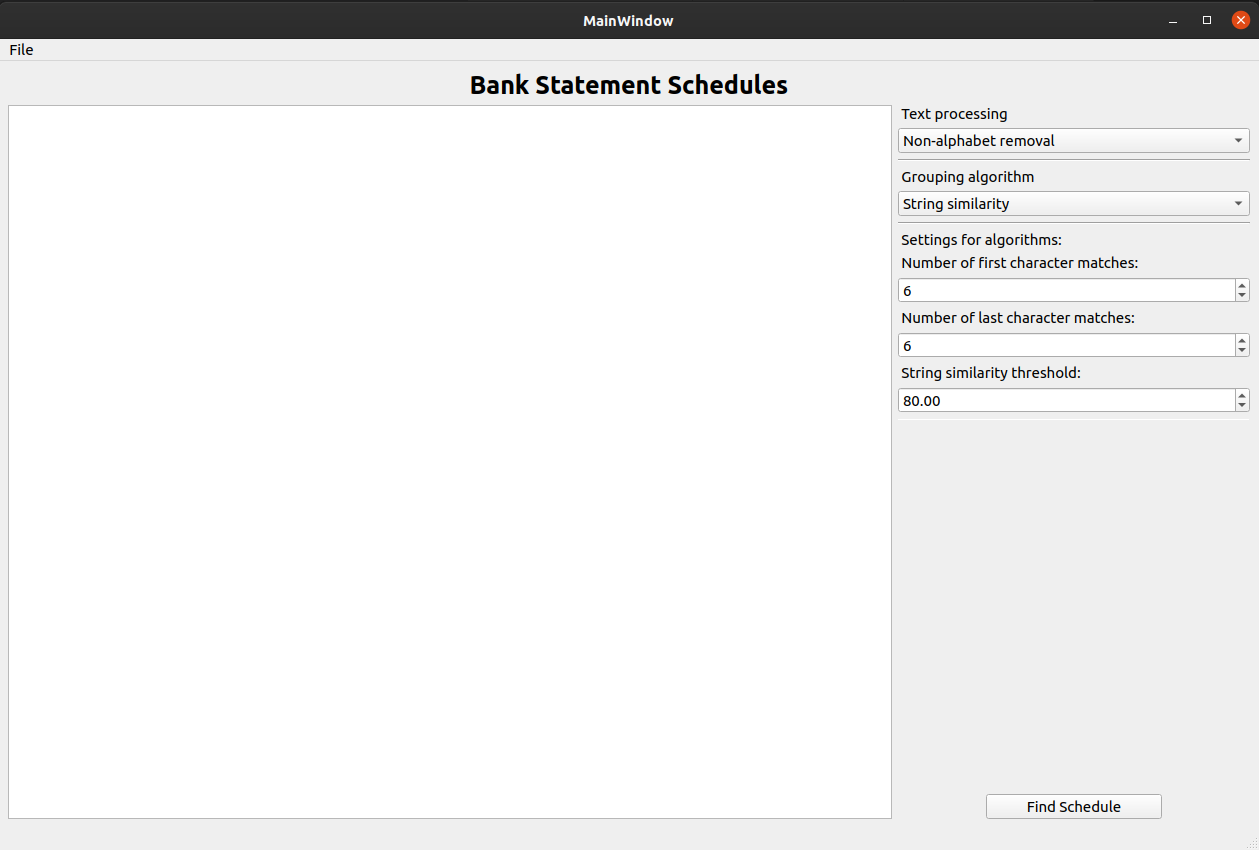
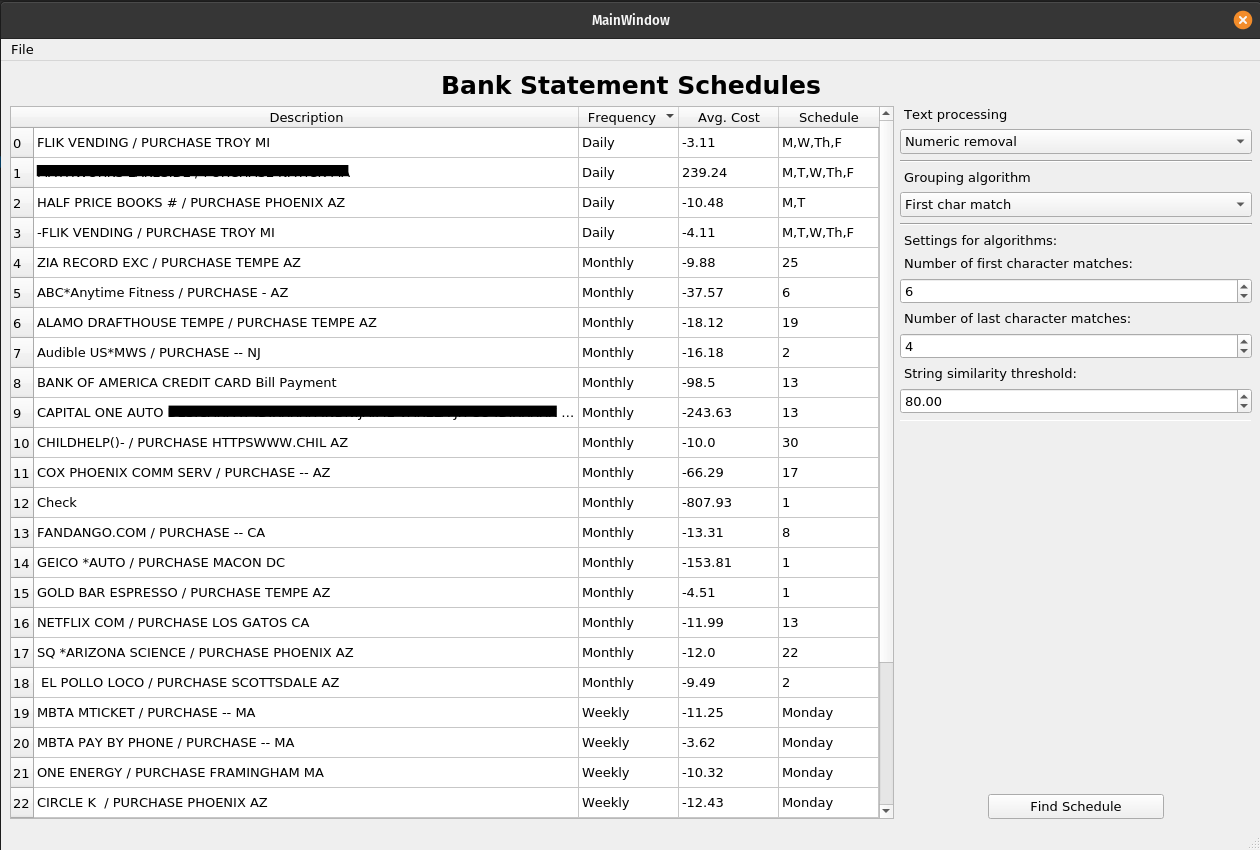
version one beta

diff --git a/analasisAPI/subscriptionFinder.py b/analasisAPI/subscriptionFinder.py
@@ -79,7 +79,7 @@ def NcharMatch(str1, str2, searchIndexStart = 0, nChars = 6):
     compareStr2 = str2[searchIndexStart:searchIndexStart + nChars]
     return compareStr1.lower() == compareStr2.lower()
 
-def reverseNcharMatch(str1,str2, reverseIndexStart = 0, nChars = 6):
+def reverseNcharMatch(str1,str2, reverseIndexStart = 0, nChars = 4):
     #TODO: assert check on params
     startIndex1 = len(str1) - (reverseIndexStart + nChars)
     startIndex2 = len(str2) - (reverseIndexStart + nChars)
@@ -153,7 +153,7 @@ def averageDFTimeDifference(groupedDF, timeColName):
 #----------------------- Schedule Predicates ------------------------------------------------------
 
 # groupedDF is assumed to be sorted
-
+#TODO : refactor out the code duplication in the count predicates
 def isDFcountInDailyRange(groupedDF,timeColName):
     firstRow = groupedDF.iloc[0]
     lastRow = groupedDF.iloc[-1]
@@ -187,11 +187,36 @@ def isDFdailySchedule(groupedDF,timeColName):
     return True
 
 
+def isDFcountInWeeklyRange(groupedDF,timeColName):
+    firstRow = groupedDF.iloc[0]
+    lastRow = groupedDF.iloc[-1]
+    startDate = firstRow[timeColName]
+    endDate = lastRow[timeColName]
+    timeRange = (endDate - startDate)
+    totalSeconds = timeRange.total_seconds()
+    NumberOfDays = totalSeconds / (24*60*60)
+    NumberOfWeeks = NumberOfDays / 7
+
+
+    weekMinFudgeFactor = 0.85
+    weekMaxFudgeFactor = 1.1
+    nMin = weekMinFudgeFactor * NumberOfWeeks # twice a week
+    nMax = weekMaxFudgeFactor * NumberOfWeeks # seven days a week
+
+    Nentries = len(groupedDF[timeColName].unique())
+    if Nentries >= nMin and Nentries <= nMax:
+        return True
+    return False
+
+
 def isDFweeklySchedule(groupedDF,timeColName):
     timeDiff = averageDFTimeDifference(groupedDF, timeColName)
     oneday = 24 * 60 * 60
     sevendays = 7*oneday
     fudgeFactor = 1.1
+
+    if not isDFcountInWeeklyRange(groupedDF,timeColName):
+        return False
 
     if timeDiff > fudgeFactor *sevendays:
         return False
@@ -199,12 +224,37 @@ def isDFweeklySchedule(groupedDF,timeColName):
         return False    
     return True
 
+def isDFcountInMonthlyRange(groupedDF,timeColName):
+    firstRow = groupedDF.iloc[0]
+    lastRow = groupedDF.iloc[-1]
+    startDate = firstRow[timeColName]
+    endDate = lastRow[timeColName]
+    timeRange = (endDate - startDate)
+    totalSeconds = timeRange.total_seconds()
+    NumberOfDays = totalSeconds / (24*60*60)
+    NumberOfWeeks = NumberOfDays / 7
+
+
+    monthMinFudgeFactor = 0.85
+    monthMaxFudgeFactor = 1.1
+    nMin = monthMinFudgeFactor * (NumberOfWeeks / 4.0)# twice a week
+    nMax = monthMaxFudgeFactor * (NumberOfWeeks / 4.0)# seven days a week
+
+    Nentries = len(groupedDF[timeColName].unique())
+    if Nentries >= nMin and Nentries <= nMax:
+        return True
+    return False
+
+
 
 def isDFMonthlySchedule(groupedDF,timeColName):
     timeDiff = averageDFTimeDifference(groupedDF, timeColName)
     oneday = 24 * 60 * 60
     month = 30*oneday
     fudgeFactor = 1.2
+    if not isDFcountInMonthlyRange(groupedDF,timeColName):
+        return False
+
     if timeDiff > fudgeFactor * month:
         return False
     if isDFdailySchedule(groupedDF,timeColName) or isDFweeklySchedule(groupedDF,timeColName):
@@ -232,7 +282,9 @@ def monthlyDFSchedule(groupedDF,timeColName):
     if not isDFMonthlySchedule(groupedDF,timeColName):
         return {}
     dayOfMonth = groupedDF[timeColName].apply(lambda x: int(x.day))
-    return dayOfMonth.mode().iloc[0]
+    # NOTE: the days of the month are returned as negative in order to discriminate against
+    # weekly values without needing the schedule enum.
+    return (-1) * dayOfMonth.mode().iloc[0]
 
 
 # returns a numeric value between zero and one if a signal has a period
@@ -268,7 +320,7 @@ def extractDFfromStringIndexPairs(dataFrame, stringIndexPairs):
 # ------------------------- Implementation of schedulers --------------------------
 
 # combine all functions to get schedules
-def getSchedules(dataFrame, textProcessEnum, groupAlgoEnum):
+def getSchedules(dataFrame, textProcessEnum, groupAlgoEnum ,optionsDict):
 
     originalDataFrame = dataFrame
     textProcessedDF = textProcessDF(dataFrame,textProcessEnum,DESC_COL)
@@ -276,11 +328,11 @@ def getSchedules(dataFrame, textProcessEnum, groupAlgoEnum):
     binerPredicate = None
     # TODO: pass in options
     if groupAlgoEnum == groupingAlgorithm.FirstNdigits:
-        binerPredicate = lambda x,y: NcharMatch(x,y)
+        binerPredicate = lambda x,y: NcharMatch(x,y,nChars=optionsDict['firstNchar'])
     elif groupAlgoEnum == groupingAlgorithm.LastNdigits:
-        binerPredicate = lambda x,y: reverseNcharMatch(x,y)
+        binerPredicate = lambda x,y: reverseNcharMatch(x,y,nChars=optionsDict['lastNchar'])
     elif groupAlgoEnum == groupingAlgorithm.StringSimilarity:
-        binerPredicate = lambda x,y: stringSimilarity(x,y)
+        binerPredicate = lambda x,y: stringSimilarity(x,y,threshold=optionsDict['similarity'])
     else:
         return []
     binnedStringsAndIndeces = binStringObjectsByPredicate(processedDescriptionArray,binerPredicate)
@@ -293,9 +345,11 @@ def getSchedules(dataFrame, textProcessEnum, groupAlgoEnum):
             scheduledDataFrames.append((schedule,intermediateDataFrame))
     return scheduledDataFrames
 
+#TODO: get rid of this global and update makeScheduleDFdisplayable
+SCHEDULE_COLUMNS = ['Description','Frequency','Avg. Cost','Schedule']
 
 def getRepresentativeDFfromSchedules(scheduledDataFrames):
-    columns = ['Description','Frequency','Avg. Cost','Schedule']
+    columns = SCHEDULE_COLUMNS
     dataValues = []
     for scheduleEntry in scheduledDataFrames:
         description = scheduleEntry[1][DESC_COL].iloc[0]

diff --git a/schedulewindow.py b/schedulewindow.py
@@ -20,6 +20,7 @@ from uiUtilities.pandasModel import PandasModel
 from uiUtilities.dropdownData import stringToEnumGrouping,stringToEnumTextProcess
 from uiUtilities.dropdownData import dayOfWeekToName, EnumScheduleToString
 from uiUtilities.dropdownData import settingsDefault
+from uiUtilities.makeScheduleDFdisplayable import makeScheduleDFdisplayable
 
 from analasisAPI.subscriptionFinder import getSchedules
 from analasisAPI.subscriptionFinder import scheduleTypeEnum
@@ -244,13 +245,15 @@ class Ui_MainWindow(object):
         algorithm = str(self.algorithmSelection.currentText())
         textProcess = str(self.textProcessSelection.currentText())
         similarity = self.similarityMeasure.value()
-
+        optionsDict = {'firstNchar': FirstNchar,
+                        'lastNchar': LastMchar,
+                        'similarity': similarity}
 
         textProcessEnum = stringToEnumTextProcess[textProcess]
         algoEnum = stringToEnumGrouping[algorithm]
-        scheduledDataFrames = getSchedules(self.dataFrame, textProcessEnum, algoEnum)
+        scheduledDataFrames = getSchedules(self.dataFrame, textProcessEnum, algoEnum,optionsDict)
         self.schedules = scheduledDataFrames
-        self.scheduleDataFrame = getRepresentativeDFfromSchedules(scheduledDataFrames)
+        self.scheduleDataFrame = makeScheduleDFdisplayable(getRepresentativeDFfromSchedules(scheduledDataFrames))
         model = PandasModel(self.scheduleDataFrame)
         self.tableView.setModel(model)
         self.tableView.setSortingEnabled(True)

diff --git a/uiUtilities/makeScheduleDFdisplayable.py b/uiUtilities/makeScheduleDFdisplayable.py
@@ -1,0 +1,38 @@
+from .dropdownData import dayOfWeekToLetter, stringToEnumGrouping
+from .dropdownData import stringToEnumTextProcess, dayOfWeekToName
+from .dropdownData import dayOfWeekToLetter, EnumScheduleToString
+import numpy as np
+
+#FIXME: get rid of this copied var (this is a problem!)
+SCHEDULE_COLUMNS = ['Description','Frequency','Avg. Cost','Schedule']
+
+def scheduleToString(x):
+    if not isinstance(x,np.ndarray):
+        if x < 0:
+            v = -1 * x
+            return str(v)
+        else:
+            return dayOfWeekToName[x]
+    # daily handler
+    x.sort()
+    retStr = ""
+    for index in range(len(x)):
+        retStr += dayOfWeekToLetter[x[index]]
+        if index != len(x) -1:
+            retStr += ","
+    return retStr
+
+def makeScheduleDFdisplayable(scheduledDF):
+    description = SCHEDULE_COLUMNS[0]
+    frequency = SCHEDULE_COLUMNS[1]
+    avgCost = SCHEDULE_COLUMNS[2]
+    sched = SCHEDULE_COLUMNS[3]
+    newDF = scheduledDF
+    newDF[frequency] = newDF[frequency].apply(lambda x: EnumScheduleToString[x])
+    newDF[avgCost] = newDF[avgCost].apply(lambda x: str( np.round(x,decimals = 2) ) )
+    newDF[sched] = newDF[sched].apply(lambda x: scheduleToString(x))
+    return newDF
+
+
+
+

diff --git a/uiUtilities/dropdownData.py b/uiUtilities/dropdownData.py
@@ -25,6 +25,17 @@ dayOfWeekToName = {
     6 : 'Sunday'
 }
 
+dayOfWeekToLetter = {
+    0 : 'M',
+    1 : 'T',
+    2 : 'W',
+    3 : 'Th',
+    4 : 'F',
+    5 : 'S',
+    6 : 'Su'
+}
+
+
 EnumScheduleToString = {
     scheduleTypeEnum.Daily : 'Daily',
     scheduleTypeEnum.Weekly : 'Weekly',

diff --git a/README.md b/README.md
@@ -22,6 +22,10 @@ A user can change the settings of the grouping algorithms in the right side pane
 
 ![Schedule Main View](./readmeResources/scheduleMainView.png)
 
+The system isn't perfect and requires more work.  For example in the above schedule there is an issue with an expense that has both debits and credits with a similar name and results in a weird daily deposit (the fully blacked out entry.  Entries have been blacked out to removed personal information).
+
+For strange expenses the query window can be used.  At some point I will make the table clickable to jump to the set of expenses associated with each entry.
+
 # Libraries in use
 
 1.) pandas
